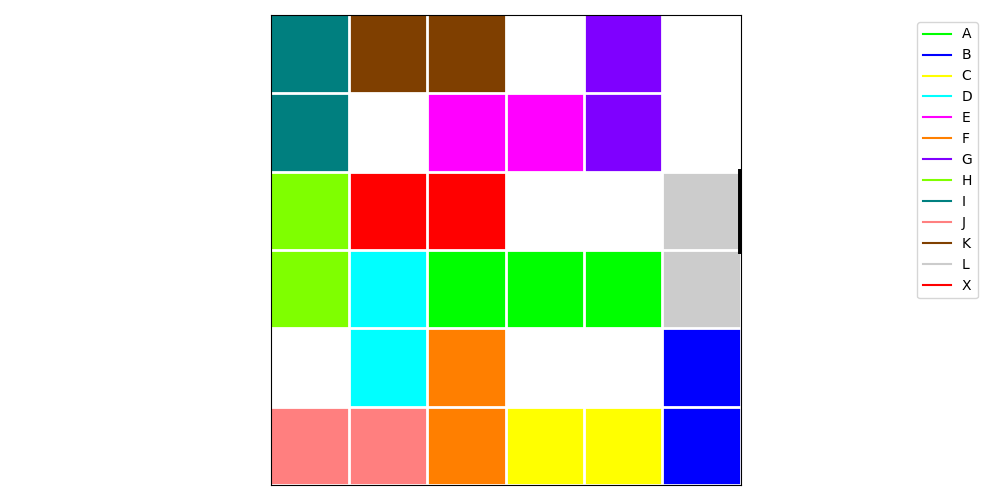
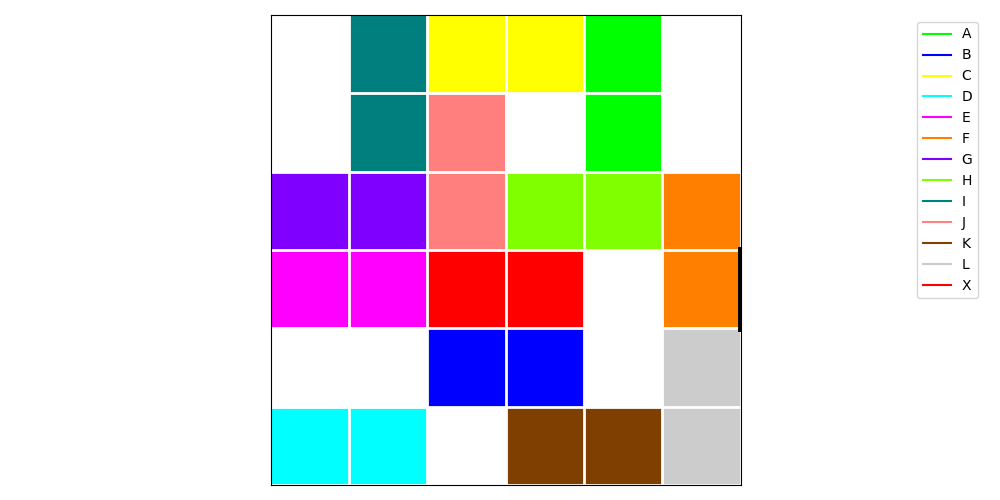
Bug fix test

diff --git a/code_files/classes/board_setup.py b/code_files/classes/board_setup.py
@@ -41,9 +41,9 @@ class Vehicle:
 
         ## Er was een -1 in de tuple waardoor generate_random_board niet werkte
         if self.orientation == 'H':
-            self.positions = [(position[0] + i, position[1]) for i in range(self.length)]
+            self.positions = [(position[0] + i - 1, position[1] - 1) for i in range(self.length)]
         else:
-            self.positions = [(position[0], position[1] + i) for i in range(self.length)]
+            self.positions = [(position[0] - 1, position[1] + i - 1) for i in range(self.length)]
 
     def change_position(self, new_positions):
         """
@@ -85,7 +85,7 @@ class Board:
 
             if name == 'X':
                 colour = np.array([1, 0, 0])
-                self.exit = (car['row'], self.size - 1)
+                self.exit = (car['row'] - 1, self.size - 1)
             else:
                 colour = self.create_colours(index)
 
